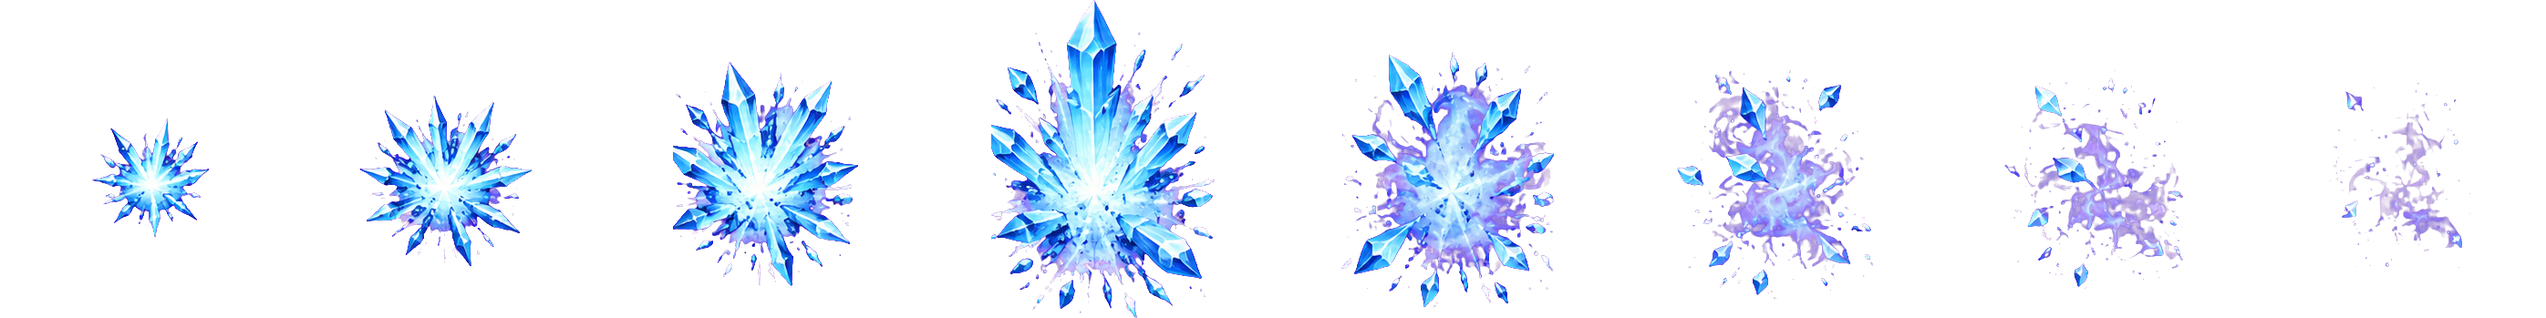
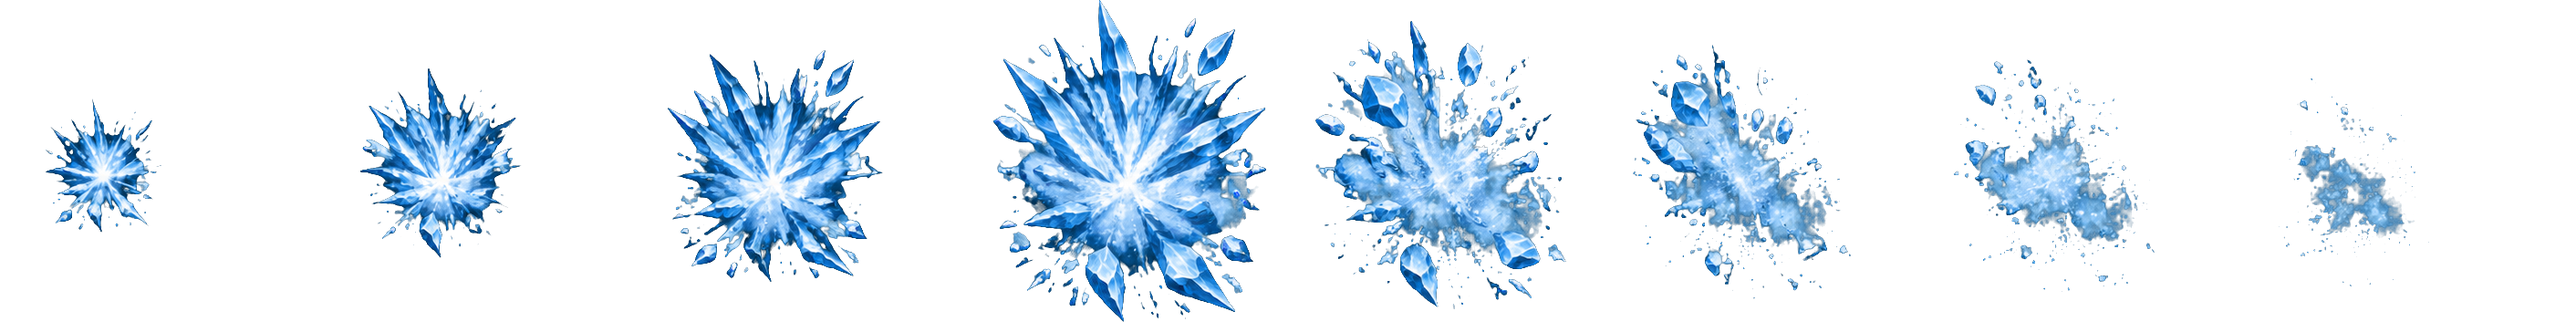
fix(arqueiro): ajustes da revisora nas folhas de gelo
Explosão e impacto regerados em fundo verde, azul-gelo até o fim (sem roxo) e sem quadros cortados; montar.py ganha chave verde, correção de matiz e corte de quadros pelos vazios. Congelado regerado com quadros variados e centro de névoa translúcida.

diff --git a/tools/arte/fx_arqueiro/gelo/montar.py b/tools/arte/fx_arqueiro/gelo/montar.py
@@ -8,6 +8,35 @@ from PIL import Image
 sys.path.insert(0, os.path.join(os.path.dirname(__file__), "..", "..", "ui_gpt_image"))
 from key import key
 
+def key_verde(path):
+    a = np.asarray(Image.open(path).convert("RGB")).astype(float)
+    r, g, b = a[..., 0], a[..., 1], a[..., 2]
+    gv = g - np.maximum(r, b)
+    alpha = np.clip(1 - (gv - 40) / 90, 0, 1)
+    sp = np.clip(g - np.maximum(r, b), 0, None) * (alpha < 1)
+    a[..., 1] -= sp * 0.8
+    a[..., 1] = np.minimum(a[..., 1], np.maximum(r, b))  # tira o tom turquesa/verde: fica azul-gelo
+    rgb = Image.fromarray(np.clip(a, 0, 255).astype(np.uint8), "RGB").convert("HSV")
+    h = np.array(rgb).astype(float)
+    m = (h[..., 0] > 85) & (h[..., 0] < 149)  # verde-ciano -> azul-gelo (210 graus = 149)
+    h[..., 0][m] = 149 - (149 - h[..., 0][m]) * 0.12
+    a = np.array(Image.fromarray(h.astype(np.uint8), "HSV").convert("RGB")).astype(float)
+    return Image.fromarray(np.dstack([a, alpha * 255]).astype(np.uint8), "RGBA")
+
+def cortes(im, n):
+    """Acha os n+1 limites de quadro nos maiores vazios da projecao horizontal (o modelo nem sempre respeita a grade)."""
+    w = im.width
+    col = (np.array(im)[..., 3] > 20).sum(axis=0)
+    lim = [0]
+    for i in range(1, n):
+        c = i * w // n; r = w // (n * 3)
+        seg = col[c - r:c + r]
+        # centro do vazio mais largo (ou do minimo) perto da grade
+        z = np.where(seg == seg.min())[0]
+        lim.append(c - r + int(z[len(z) // 2]))
+    lim.append(w)
+    return lim
+
 def limpa_bordas(c):
     """O modelo as vezes deixa lascas do quadro vizinho na borda da celula: apaga os pedacos pequenos que tocam
     a borda esquerda/direita (menos de 20% da area do maior pedaco)."""
@@ -30,8 +59,10 @@ def main(ent, sai):
         p = os.path.join(ent, it["id"] + ".png")
         if not os.path.exists(p):
             print("falta", p); continue
-        im = key(p); n = it["quadros"]; w = im.width // n
-        cel = [limpa_bordas(im.crop((i * w, 0, (i + 1) * w, im.height))) for i in range(n)]
+        im = key_verde(p) if it.get('fundo') == 'verde' else key(p); n = it["quadros"]; w = im.width // n
+        lim = cortes(im, n) if it.get('fundo') == 'verde' else [i * w for i in range(n + 1)]
+        cel = [limpa_bordas(im.crop((lim[i], 0, lim[i + 1], im.height))) for i in range(n)]
+        cel = [c.crop((0, 0, c.width, c.height)) for c in cel]
         # caixa comum: união dos conteúdos, centrada na célula
         box = None
         for c in cel:
